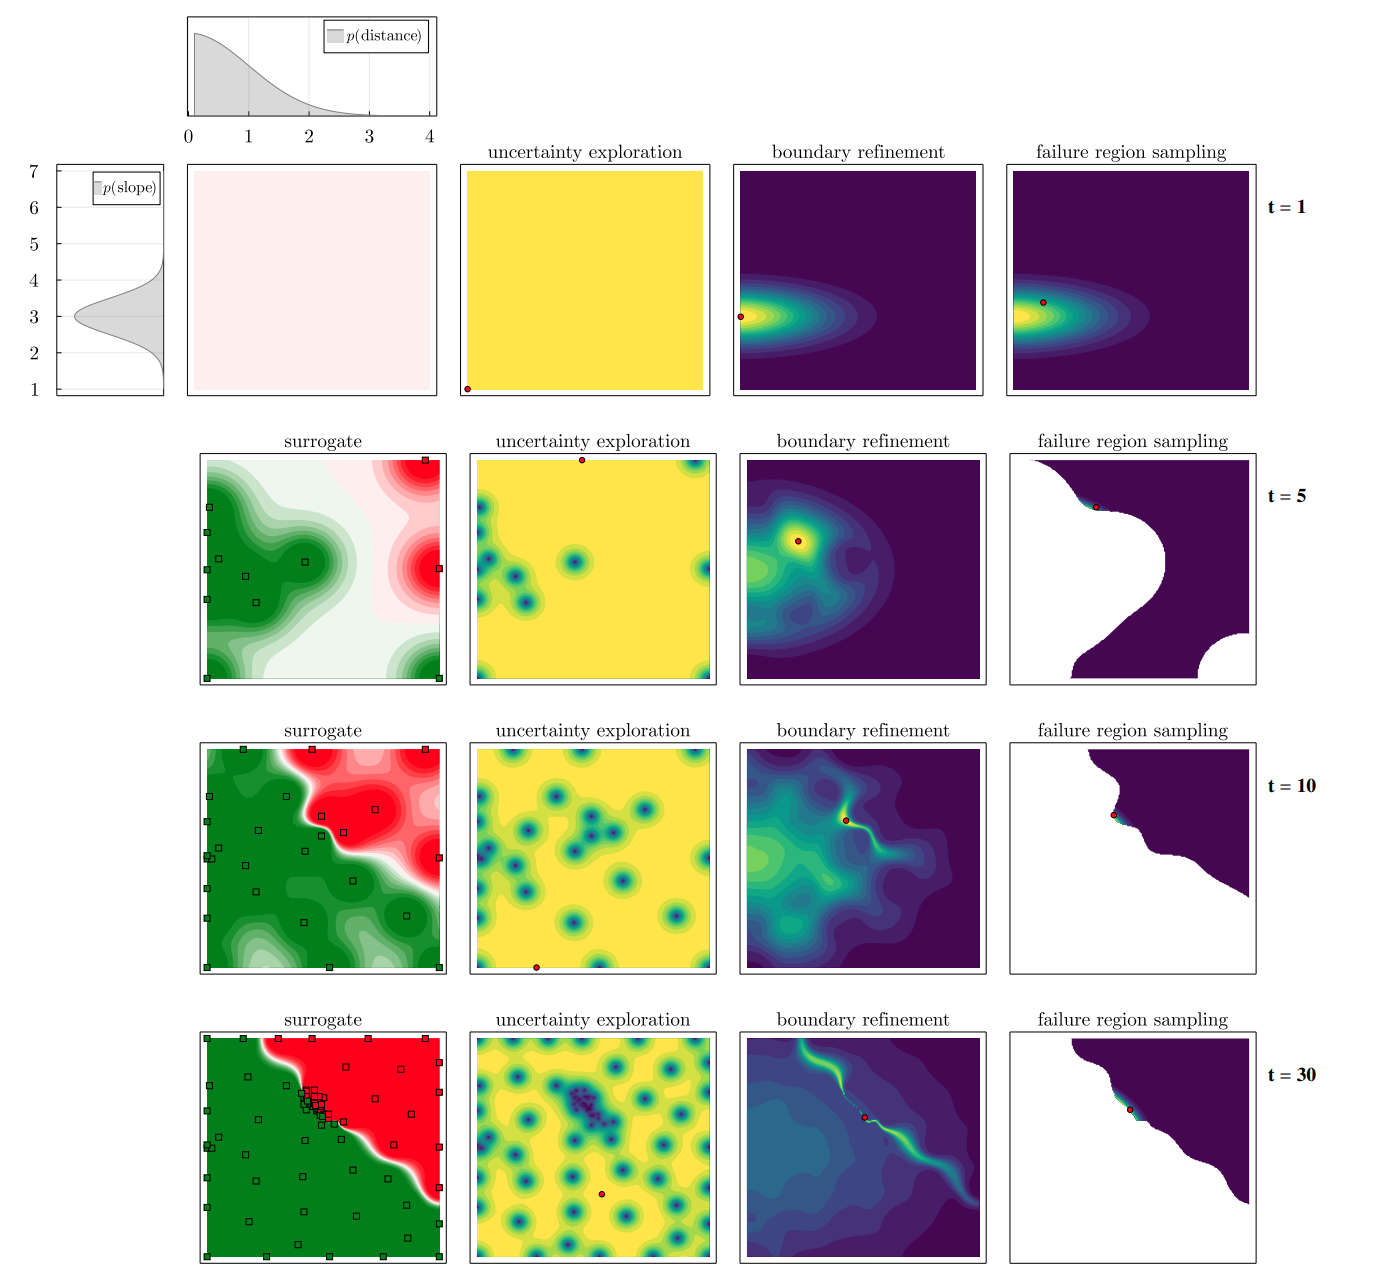
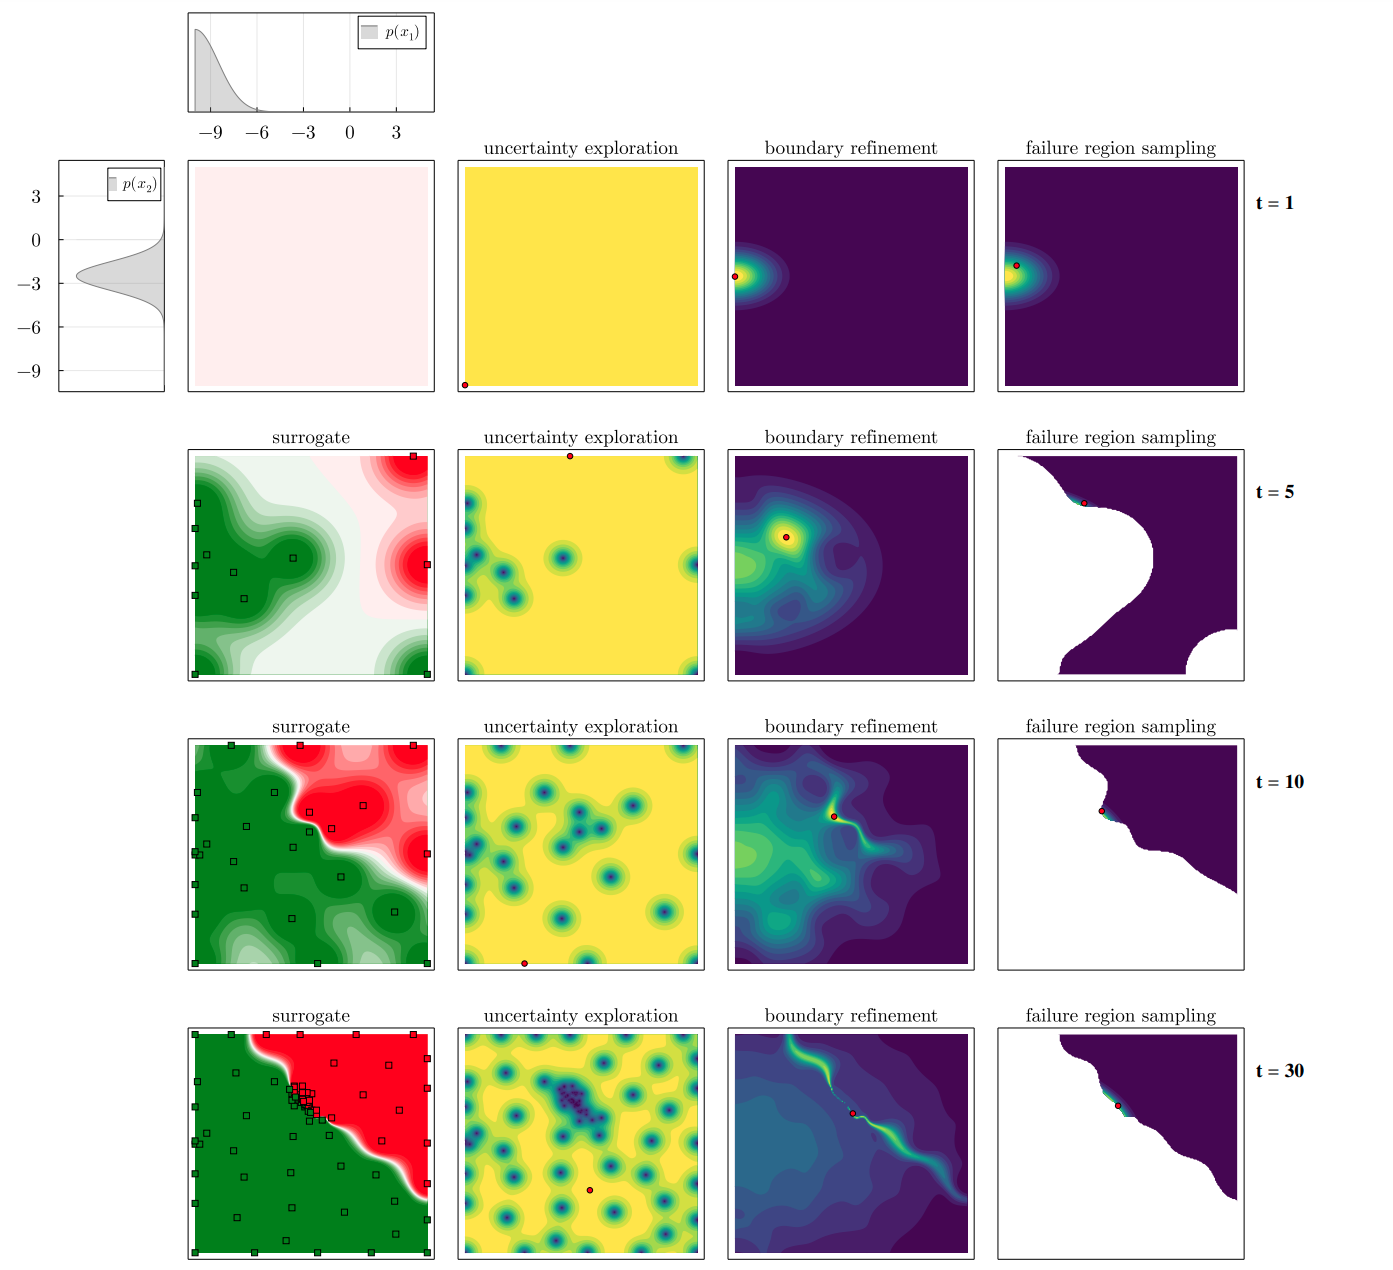
README: Updated plots and example

diff --git a/README.md b/README.md
@@ -48,4 +48,8 @@ ml_failure = most_likely_failure(surrogate.x, surrogate.y, model)
 p_failure  = p_estimate(surrogate, model)
 ```
 
+## Visualizations
+
+Below is an example from `src/systems/dummy_booth_system.jl`:
+
 <img src="./media/example_plot.png">
